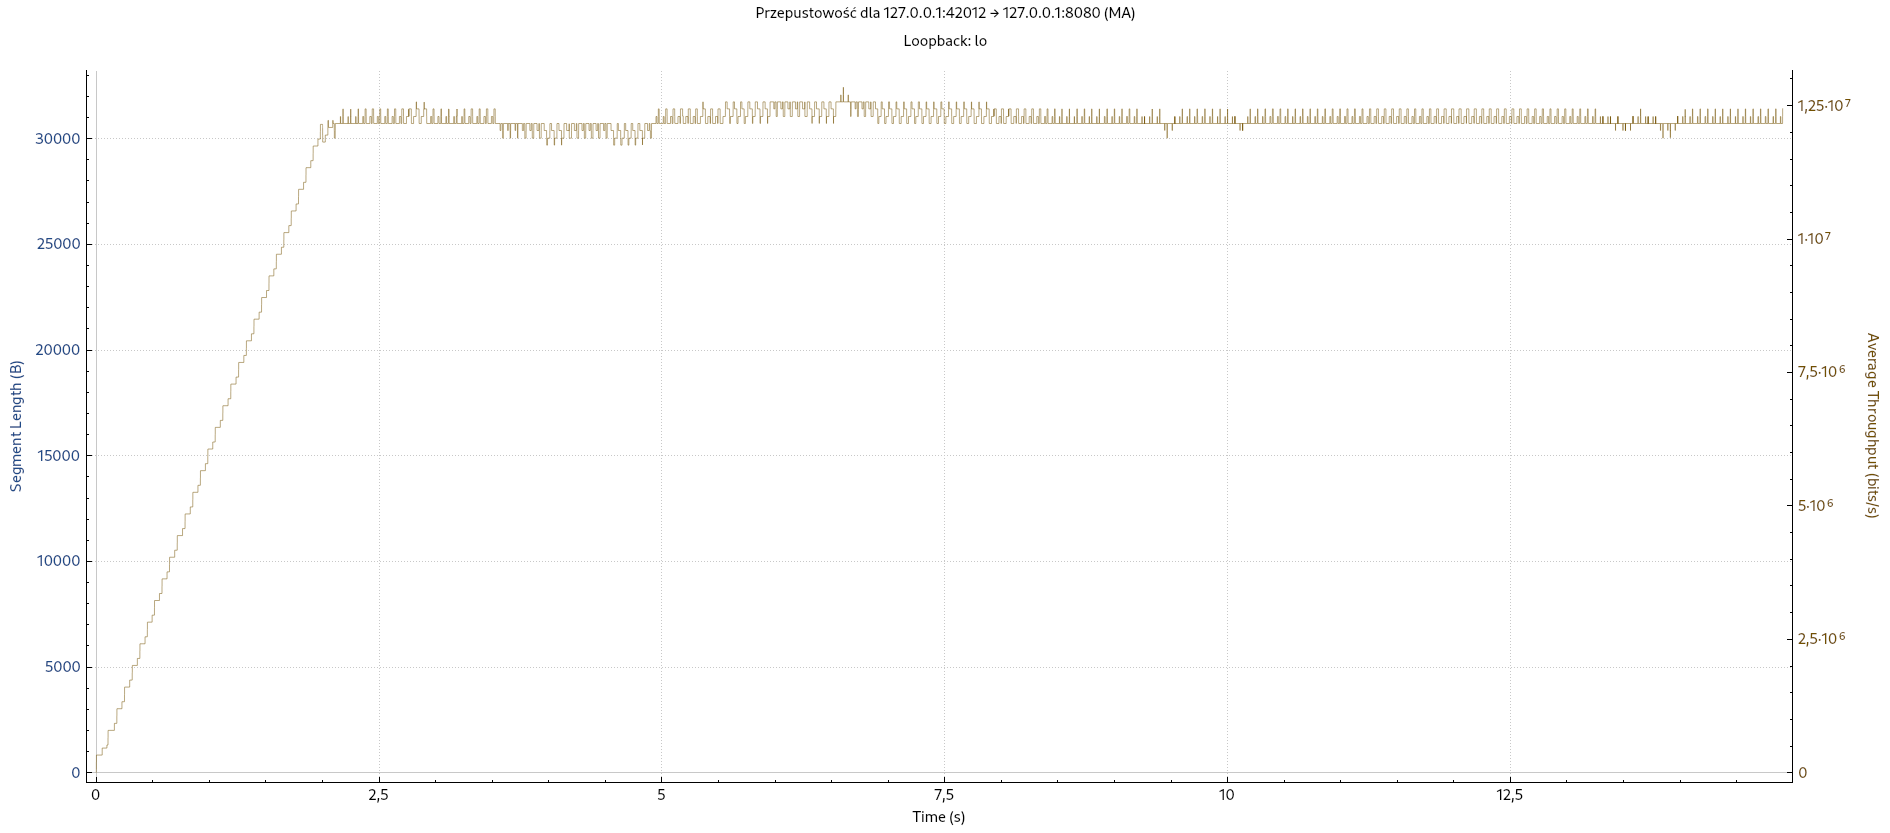
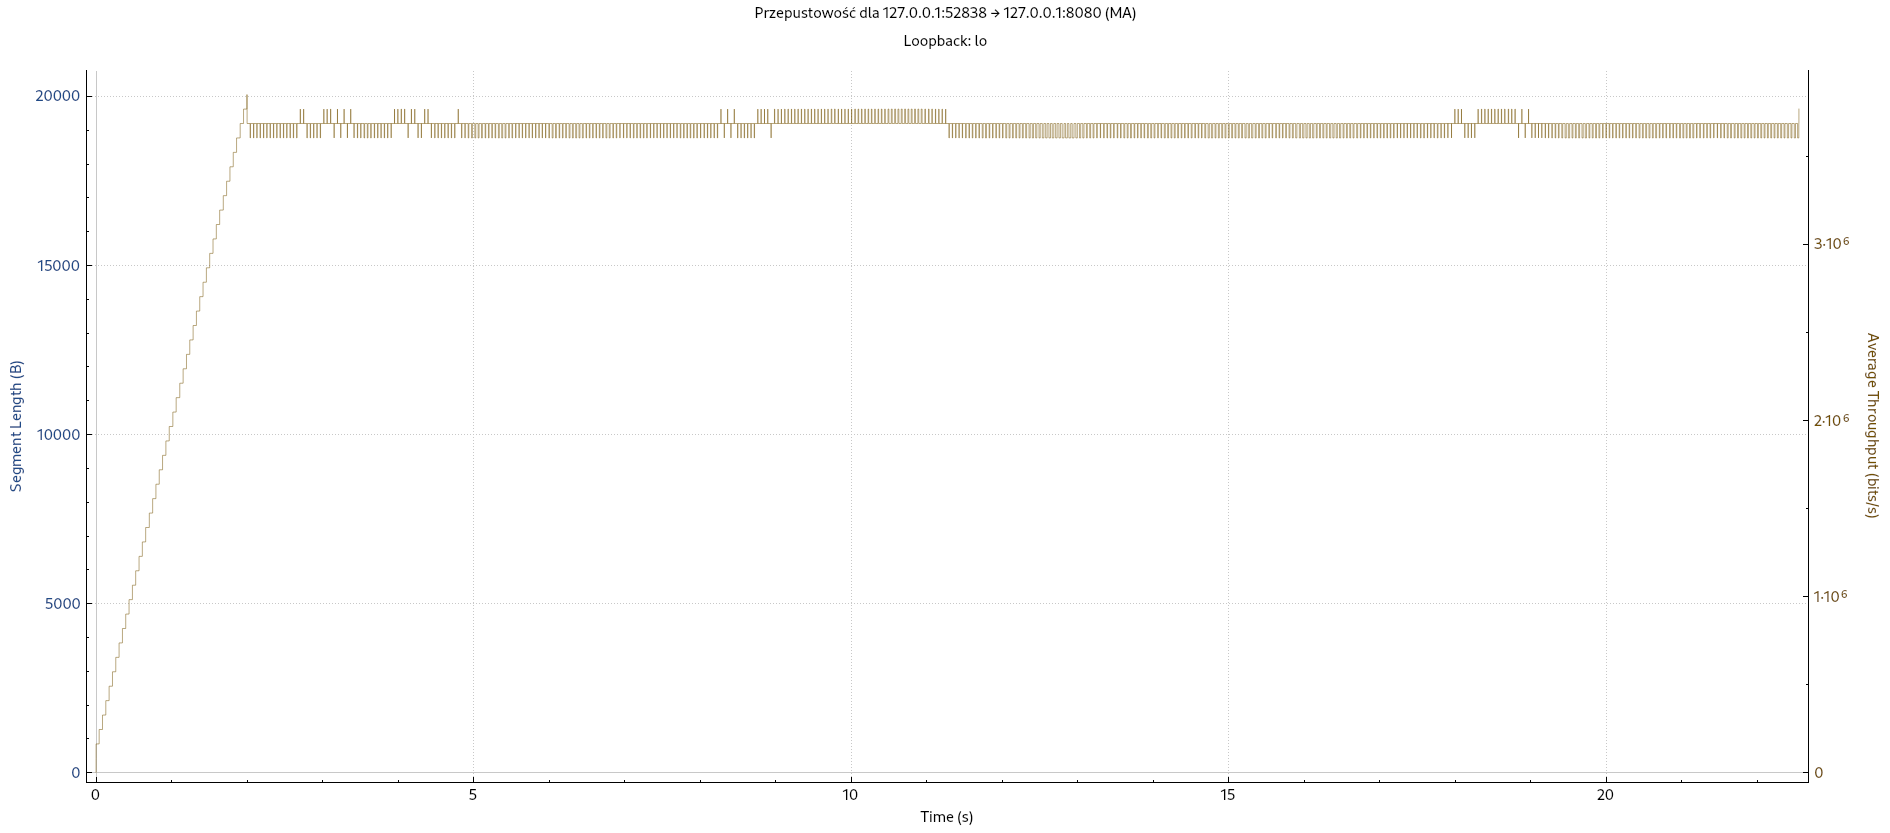
change time

diff --git a/zad23/client.c b/zad23/client.c
@@ -46,13 +46,15 @@ void write_buffer_to_server(int sockfd)
     bzero(buff, sizeof(buff));
     // create 4 different nodes ~~ NODES_COUNT
     Node *head = createNodeInt16(123);
-    head->next = createNodeInt32(456);
-    head->next->next = createNodeFixedSizeString("aaaaaaaaaaaaaaaaaaaaaaaaaaaaaaaaaaaaaaa\0" );
-    head->next->next->next = createNodeVariableSizeString("bbbbbbbbbbbbbbbbbbbbbbbbbbbbbbbbbbbbbbbb\0");
+    Node* n = head;
+    for(int i=0;i<NODES_COUNT-1;i++){
+        n->next = createNodeInt32(789);
+        n = n->next;
+    }
     // write the linked list to the buffer
     writeListToBuffer(head, buff);
     // send the buffer to the server
-    write(sockfd, buff, sizeof(buff));
+    send(sockfd, buff, sizeof(buff), 0);
     // free the memory allocated
     freeList(head);
 
@@ -69,7 +71,7 @@ int main(int argc, char **argv)
     }
 
     int bufferSize = argc > 1 ? atoi(argv[1]) : 100;
-    if (setsockopt(sockfd, SOL_SOCKET, SO_SNDBUF, &bufferSize, sizeof(bufferSize)) < 0) {
+    if (setsockopt(sockfd, SOL_SOCKET, SO_SNDBUFFORCE, &bufferSize, sizeof(bufferSize)) < 0) {
         perror("Error setting socket options");
         close(sockfd);
         exit(EXIT_FAILURE);

diff --git a/zad23/config.h b/zad23/config.h
@@ -3,8 +3,8 @@
 #define LAB_REPO_CONFIG_H
 
 #define PORT 8080
-#define BUFF_SIZE 1024
+#define BUFF_SIZE 20480
 #define BACKLOG 5
-#define NODES_COUNT 4
+#define NODES_COUNT 20
 #define FIXED_SIZE_STRING_LENGTH 40
 #endif //LAB_REPO_CONFIG_H

diff --git a/zad23/server.c b/zad23/server.c
@@ -87,7 +87,7 @@ int main()
     }
     while(1){
         read_from_buffer(connfd);
-        usleep(500);
+        usleep(100);
     }
 
     close(sockfd);

diff --git a/zad23/doc.md b/zad23/doc.md
@@ -1,6 +1,6 @@
 Eksperymenty zostały wykonane dla parametrów:
-- czas blokady serwera: 500ms
-- bufor nadawczy klienta: 1024B, 4096B, 10240B
+- czas blokady serwera: 100ms
+- bufor nadawczy klienta: 1024B, 8096B, 20480B
 
 ## Wykresy
 
@@ -9,13 +9,13 @@ Eksperymenty zostały wykonane dla parametrów:
 
 ![](thr-1024.png)
 
-### Bufor 4096
-![](log4096-plot.png)
-![](thr-4096.png)
+### Bufor 8096
+![](log8096-plot.png)
+![](thr-8096.png)
 
-### Bufor 10240
-![](log10240-plot.png)
-![](thr-10240.png)
+### Bufor 20480
+![](log20480-plot.png)
+![](thr-20480.png)
 
 
 
